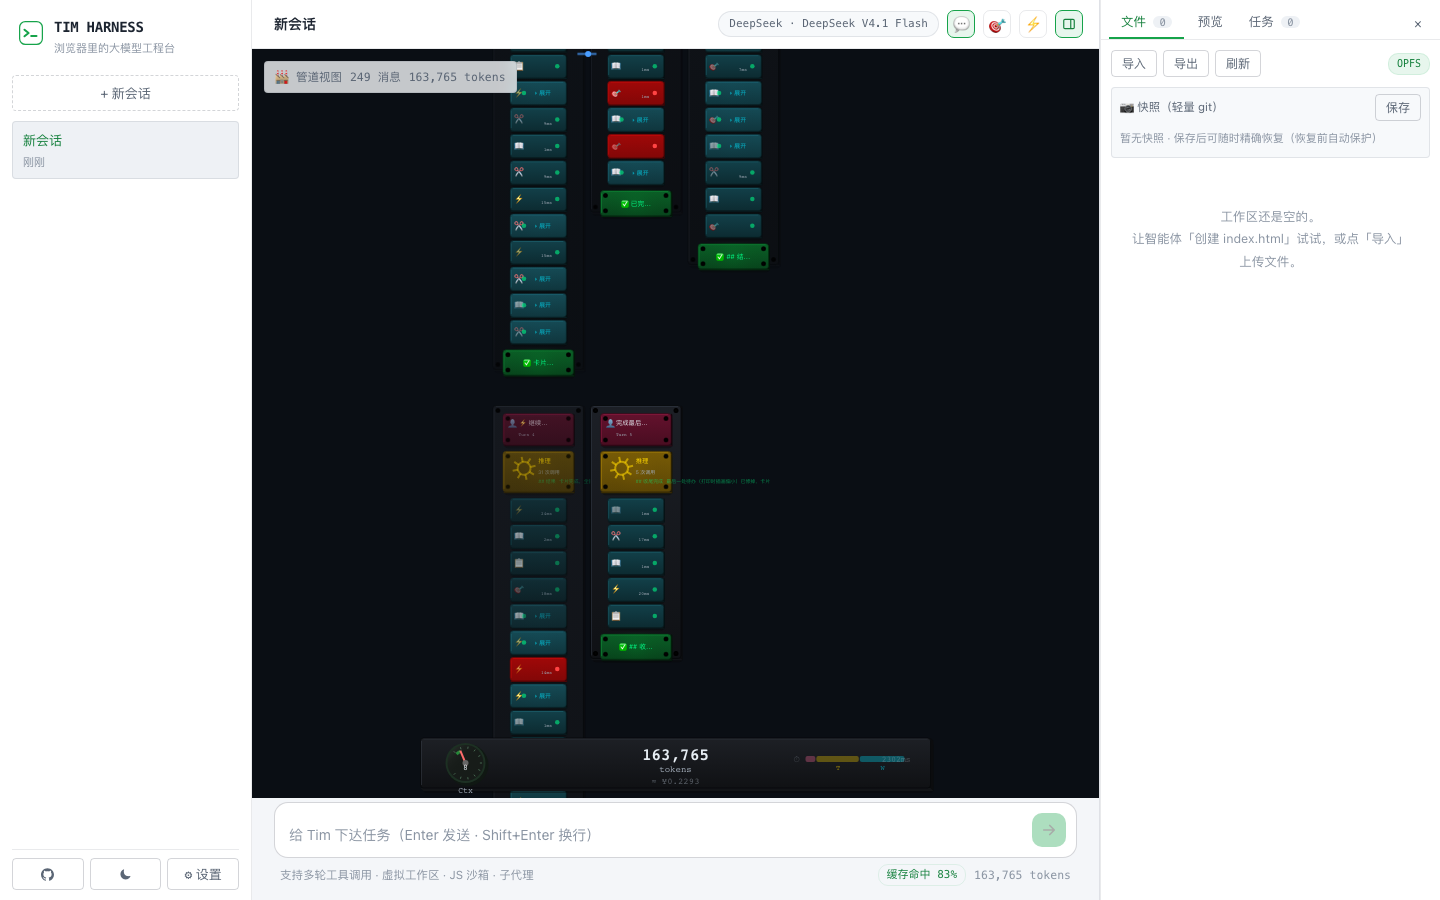
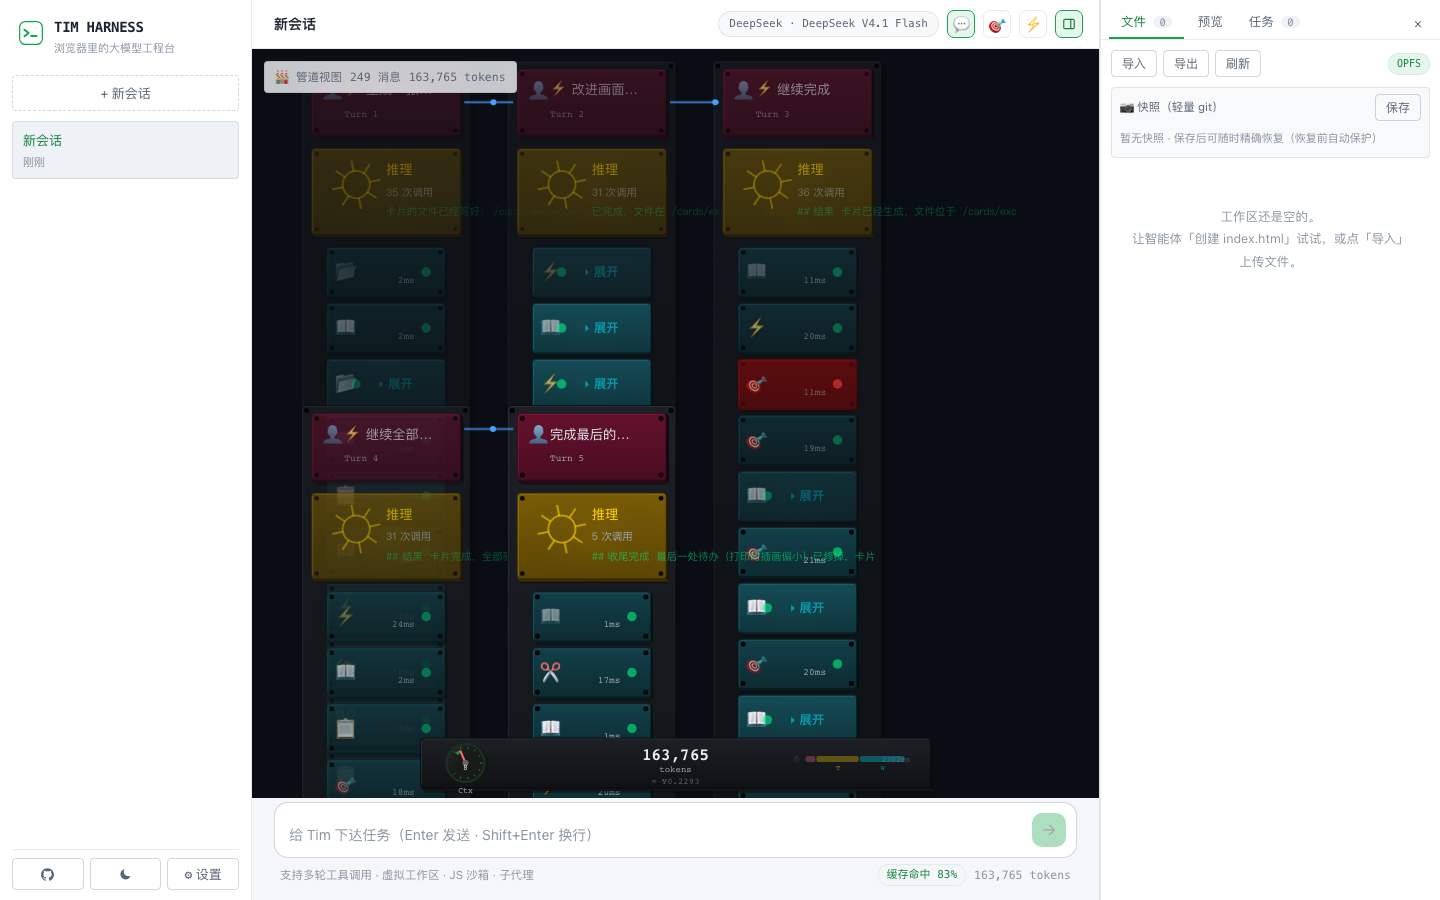
feat: 三级渐进式披露 —— 工具区缺省收拢为一行摘要
用户需求（终于正确理解）：
  '从整个数量来说，能够代表性到数个，而不是一拉开来一大堆'
  折叠的目的 = 使可视化更加紧凑
  不是折叠连续同类，而是整个工具列表默认收拢

三级渐进式披露：
  Level 0 (缺省): [🔧 35 calls ▸ detail]     ← 一行，极度紧凑
  Level 1 (点击):  按类别汇总                  ← 3-5 行
    [📖 read ×15] [✂ edit ×10] [⚡ exec ×7] ...
    [▸ view all]
  Level 2 (再点):  完整明细                    ← 每个调用
    [1 📖 read_file ✓] [2 📖 read_file ✓] ...

交互：
  点击 Level 0 → Level 1（类别汇总）
  点击 Level 1 标题 → Level 0（收起）
  点击 'view all' → Level 2（完整明细）
  点击 Level 2 标题 → Level 0（收起）

布局优化：
  rowHeight 按 Level 0 计算（每回合仅 ~50px 工具区）
  5 回合 × 紧凑高度 = 全部可见，不需要滚动

diff --git a/src/ui/components/PipelineRenderer.ts b/src/ui/components/PipelineRenderer.ts
@@ -26,6 +26,15 @@ const TOOL_ICONS: Record<string, string> = {
   goal_update: '🎯', snapshot_save: '💾', snapshot_list: '📦',
 }
 const toolIcon = (n: string) => TOOL_ICONS[n] ?? '🔧'
+const TOOL_CATEGORY: Record<string, { cat: string; icon: string }> = {
+  read_file: { cat: 'read', icon: '📖' }, write_file: { cat: 'write', icon: '✍' },
+  edit_file: { cat: 'edit', icon: '✂' }, run_js: { cat: 'exec', icon: '⚡' },
+  grep: { cat: 'search', icon: '🎯' }, glob: { cat: 'match', icon: '🎯' },
+  ls: { cat: 'browse', icon: '📂' }, web_fetch: { cat: 'fetch', icon: '🌐' },
+  web_search: { cat: 'search', icon: '🔎' }, skill: { cat: 'skill', icon: '📚' },
+  spawn_agent: { cat: 'spawn', icon: '🤖' }, todo_write: { cat: 'plan', icon: '📋' },
+  ask_user: { cat: 'ask', icon: '❓' }, snapshot_save: { cat: 'snap', icon: '💾' },
+}
 
 const TOOL_DESC: Record<string, string> = {
   read_file: '读取文件', write_file: '写入文件', edit_file: '修改文件',
@@ -112,7 +121,7 @@ export class PipelineRenderer {
   private offsetX = 0; private offsetY = 0
   private panning = false
   private panStart = { x: 0, y: 0 }
-  private expandedFolds = new Set<string>()
+  private expandLevel = new Map<string, number>()
   private hitItems: Array<{ key: string; x: number; y: number; w: number; h: number }> = []
 
   constructor(canvas: HTMLCanvasElement) {
@@ -138,8 +147,7 @@ export class PipelineRenderer {
     const perRow = Math.min(nTurns, maxPerRow)
     const nRows = Math.ceil(nTurns / perRow)
     this.pipeW = Math.min(PIPE_W_MAX, Math.max(PIPE_W_MIN, (availW - (perRow - 1) * GAP_H) / perRow))
-    const maxTools = Math.max(...this.data.turns.map(t => t.tools.length), 1)
-    this.rowHeight = USER_H + THINK_H + maxTools * (TOOL_H + GAP_V * 0.5) + DONE_H + GAP_V * 4 + 20
+        this.rowHeight = USER_H + THINK_H + 50 + DONE_H + GAP_V * 4 + 20
     const contentW = perRow * (this.pipeW + GAP_H) - GAP_H
     const contentH = nRows * this.rowHeight
     const fit = fitToViewport(contentW, contentH, this.w, this.h - FOOTER_H, 1.0, 20, 0.45)
@@ -191,10 +199,12 @@ export class PipelineRenderer {
     // 点击检测：折叠/展开项
     for (const item of this.hitItems) {
       if (sx >= item.x && sx <= item.x + item.w && sy >= item.y && sy <= item.y + item.h) {
-        if (this.expandedFolds.has(item.key)) {
-          this.expandedFolds.delete(item.key)
+        const turnId = item.key.split(':')[0]
+        if (item.key.endsWith(':all')) {
+          this.expandLevel.set(turnId, 2)
         } else {
-          this.expandedFolds.add(item.key)
+          const cur = this.expandLevel.get(turnId) ?? 0
+          this.expandLevel.set(turnId, cur === 0 ? 1 : 0)
         }
         return
       }
@@ -289,14 +299,9 @@ export class PipelineRenderer {
     const gap = GAP_V * this.zoom
 
     // 计算实际渲染的工具行数（考虑展开状态）
-    const isExpanded = (toolIdx: number) => this.expandedFolds.has(`${turn.turnId}:${toolIdx}`)
-    const visibleRows = turn.tools.reduce((sum, tool, idx) => {
-      if (tool.folded && isExpanded(idx)) return sum + 1 + (tool.count ?? 1) // 标题行 + 每个调用
-      return sum + 1
-    }, 0)
 
     // 底座
-    const totalH = (USER_H + THINK_H + visibleRows * TOOL_H + (turn.finalText ? DONE_H : 0) + gap * (3 + visibleRows)) * this.zoom
+    const totalH = (USER_H + THINK_H + 50 + (turn.finalText ? DONE_H : 0) + gap * 4) * this.zoom
     drawPanel(ctx, px - 10, py - 8, pw + 20, totalH + 16, {
       hue: 220, sat: 15, light: 10, depth: 4 * this.zoom
     }, now, { screws: true })
@@ -331,151 +336,112 @@ export class PipelineRenderer {
     ctx.fillStyle = C.think; ctx.font = `${14 * this.zoom}px sans-serif`; ctx.textAlign = 'left'
     ctx.fillText('推理', px + pw * 0.5, py + th * 0.3)
     ctx.fillStyle = C.textDim; ctx.font = `${11 * this.zoom}px sans-serif`
-    const totalCalls = turn.tools.reduce((s, t) => s + (t.count ?? 1), 0)
-    ctx.fillText(`${totalCalls} 次调用`, px + pw * 0.5, py + th * 0.55)
     if (turn.finalText) {
       ctx.fillStyle = C.done + '80'
       ctx.fillText(turn.finalText, px + pw * 0.5, py + th * 0.78)
     }
     py += th + gap
 
-    // ═══ 工具列表（含折叠/展开交互）═══
-    for (let toolIdx = 0; toolIdx < turn.tools.length; toolIdx++) {
-      const tool = turn.tools[toolIdx]
-      const key = `${turn.turnId}:${toolIdx}`
-      const expanded = this.expandedFolds.has(key)
+    // ═══ 工具区：三级渐进式披露 ═══
+    const totalCalls = turn.tools.reduce((sum, t) => sum + (t.count ?? 1), 0)
+    const level = this.expandLevel.get(String(turn.turnId)) ?? 0
 
-      if (tool.folded && !expanded) {
-        // ═══ 折叠状态 ═══
-        const toolH = TOOL_H * this.zoom
-        drawPanel(ctx, px + 16 * this.zoom, py, pw - 32 * this.zoom, toolH, {
-          hue: 190, sat: 60, light: 18, depth: 2 * this.zoom
-        }, now, { screws: false, glowAlpha: 0.03 })
-
-        // 图标
-        ctx.font = `${18 * this.zoom}px sans-serif`; ctx.textAlign = 'left'; ctx.textBaseline = 'middle'
-        ctx.fillText(toolIcon(tool.name), px + 24 * this.zoom, py + toolH / 2)
-
-        // 折叠名称："run_js ×5"（加粗+青色）
-        ctx.fillStyle = C.tool
-        ctx.font = `bold ${14 * this.zoom}px ui-monospace, monospace`
-        ctx.textBaseline = 'alphabetic'
-        drawTextSafe(ctx, `${tool.name} ×${tool.count}`, px + 52 * this.zoom, py + toolH * 0.38, pw - 140 * this.zoom, 'left')
-
-        // 描述
-        ctx.fillStyle = C.tool + '70'
-        ctx.font = `${10 * this.zoom}px sans-serif`
-        drawTextSafe(ctx, `${tool.count} 次连续调用`, px + 52 * this.zoom, py + toolH * 0.72, pw - 140 * this.zoom, 'left')
-
-        // ▸ 展开按钮（大且明显）
-        ctx.fillStyle = C.tool + '90'
-        ctx.font = `bold ${13 * this.zoom}px sans-serif`
-        ctx.textAlign = 'right'; ctx.textBaseline = 'middle'
-        ctx.fillText('▸ 展开', px + pw - 50 * this.zoom, py + toolH / 2)
-
-        // 状态灯
-        const lightX = px + pw - 110 * this.zoom
-        ctx.fillStyle = C.done + '90'
-        ctx.beginPath(); ctx.arc(lightX, py + toolH / 2, 5 * this.zoom, 0, Math.PI * 2); ctx.fill()
-
-        // 注册点击区域
-        this.hitItems.push({
-          key, x: px + 16 * this.zoom, y: py,
-          w: pw - 32 * this.zoom, h: toolH,
-        })
-        // 折叠标记不受时间淡化（必须可见可点击）
-        ctx.globalAlpha = Math.max(ctx.globalAlpha, 0.8)
-
-        py += toolH + gap * 0.5
-        ctx.globalAlpha = 1 // 恢复（后面会重新设置）
-      } else if (tool.folded && expanded) {
-        // ═══ 展开状态 ═══
-        const count = tool.count ?? 1
-
-        // 标题行（点击收起）
-        const headerH = 32 * this.zoom
-        ctx.fillStyle = C.tool + '20'
-        ctx.strokeStyle = C.tool + '50'; ctx.lineWidth = 1
-        ctx.beginPath(); ctx.roundRect(px + 16 * this.zoom, py, pw - 32 * this.zoom, headerH, 4); ctx.fill(); ctx.stroke()
-
-        ctx.fillStyle = C.tool
-        ctx.font = `bold ${12 * this.zoom}px sans-serif`
-        ctx.textAlign = 'left'; ctx.textBaseline = 'middle'
-        ctx.fillText(`${toolIcon(tool.name)} ${tool.name}`, px + 28 * this.zoom, py + headerH / 2)
-
-        ctx.fillStyle = C.tool + '80'
-        ctx.font = `${11 * this.zoom}px sans-serif`
+    if (totalCalls > 0 && level === 0) {
+      // Level 0: 一行摘要（缺省，极度紧凑）
+      const sumH = 44 * this.zoom
+      drawPanel(ctx, px + 16 * this.zoom, py, pw - 32 * this.zoom, sumH, {
+        hue: 190, sat: 50, light: 15, depth: 2 * this.zoom
+      }, now, { screws: false })
+      ctx.font = `${16 * this.zoom}px sans-serif`; ctx.textAlign = 'left'; ctx.textBaseline = 'middle'
+      ctx.fillText('\u{1F527}', px + 26 * this.zoom, py + sumH / 2)
+      ctx.fillStyle = C.tool
+      ctx.font = `bold ${13 * this.zoom}px sans-serif`
+      ctx.fillStyle = C.tool + '80'
+      ctx.font = `${11 * this.zoom}px sans-serif`
+      ctx.textAlign = 'right'
+      ctx.fillText('\u25B8 detail', px + pw - 45 * this.zoom, py + sumH / 2)
+      this.hitItems.push({ key: String(turn.turnId), x: px + 16 * this.zoom, y: py, w: pw - 32 * this.zoom, h: sumH })
+      py += sumH + gap
+    } else if (totalCalls > 0 && level === 1) {
+      // Level 1: 按类别汇总
+      const catMap = new Map<string, { count: number; icon: string }>()
+      for (const t of turn.tools) {
+        const cat = TOOL_CATEGORY[t.name]?.cat ?? t.name
+        const icon = TOOL_CATEGORY[t.name]?.icon ?? '\u{1F527}'
+        const n = t.count ?? 1
+        const ex = catMap.get(cat)
+        if (ex) ex.count += n
+        else catMap.set(cat, { count: n, icon })
+      }
+      const hdrH = 30 * this.zoom
+      ctx.fillStyle = C.tool + '15'; ctx.strokeStyle = C.tool + '40'; ctx.lineWidth = 1
+      ctx.beginPath(); ctx.roundRect(px + 16 * this.zoom, py, pw - 32 * this.zoom, hdrH, 4); ctx.fill(); ctx.stroke()
+      ctx.fillStyle = C.tool; ctx.font = `bold ${11 * this.zoom}px sans-serif`
+      ctx.textAlign = 'right'; ctx.textBaseline = 'middle'
+      ctx.textAlign = 'left'
+      ctx.fillText('by category', px + 26 * this.zoom, py + hdrH / 2)
+      this.hitItems.push({ key: String(turn.turnId), x: px + 16 * this.zoom, y: py, w: pw - 32 * this.zoom, h: hdrH })
+      py += hdrH + gap * 0.3
+      for (const [cat, info] of catMap) {
+        const catH = 32 * this.zoom
+        ctx.fillStyle = 'rgba(0,229,255,0.06)'; ctx.strokeStyle = 'rgba(0,229,255,0.12)'; ctx.lineWidth = 0.5
+        ctx.beginPath(); ctx.roundRect(px + 24 * this.zoom, py, pw - 48 * this.zoom, catH, 3); ctx.fill(); ctx.stroke()
+        ctx.font = `${12 * this.zoom}px sans-serif`; ctx.textAlign = 'left'; ctx.textBaseline = 'middle'
+        ctx.fillText(info.icon, px + 32 * this.zoom, py + catH / 2)
+        ctx.fillStyle = C.text; ctx.font = `${11 * this.zoom}px sans-serif`
+        ctx.fillText(cat, px + 52 * this.zoom, py + catH / 2)
+        ctx.fillStyle = C.tool; ctx.font = `bold ${11 * this.zoom}px monospace`
         ctx.textAlign = 'right'
-        ctx.fillText(`▾ 收起 (${count} 个)`, px + pw - 50 * this.zoom, py + headerH / 2)
-
-        // 注册标题行点击
-        this.hitItems.push({
-          key, x: px + 16 * this.zoom, y: py,
-          w: pw - 32 * this.zoom, h: headerH,
-        })
-        py += headerH + gap * 0.3
-
-        // 每个调用
-        for (let ci = 0; ci < count; ci++) {
-          const callH = TOOL_H * 0.75 * this.zoom
-          ctx.fillStyle = 'rgba(0,229,255,0.06)'
-          ctx.strokeStyle = 'rgba(0,229,255,0.15)'; ctx.lineWidth = 0.5
-          ctx.beginPath(); ctx.roundRect(px + 24 * this.zoom, py, pw - 48 * this.zoom, callH, 3); ctx.fill(); ctx.stroke()
-
-          ctx.textBaseline = 'middle'
-          // 序号
-          ctx.fillStyle = C.textDim; ctx.font = `${9 * this.zoom}px monospace`; ctx.textAlign = 'left'
-          ctx.fillText(`#${ci + 1}`, px + 32 * this.zoom, py + callH / 2)
-          // 图标
-          ctx.font = `${12 * this.zoom}px sans-serif`
-          ctx.fillText(toolIcon(tool.name), px + 62 * this.zoom, py + callH / 2)
-          // 名称
-          ctx.fillStyle = C.text; ctx.font = `${10 * this.zoom}px monospace`
-          ctx.fillText(tool.name, px + 82 * this.zoom, py + callH / 2)
-          // 状态
+        ctx.fillText(`\u00D7${info.count}`, px + pw - 45 * this.zoom, py + catH / 2)
+        py += catH + gap * 0.2
+      }
+      const moreH = 26 * this.zoom
+      ctx.fillStyle = C.tool + '10'
+      ctx.beginPath(); ctx.roundRect(px + 24 * this.zoom, py, pw - 48 * this.zoom, moreH, 3); ctx.fill()
+      ctx.fillStyle = C.tool + '70'; ctx.font = `${10 * this.zoom}px sans-serif`
+      ctx.textAlign = 'center'
+      ctx.fillText('\u25B8 view all', px + pw / 2, py + moreH / 2)
+      this.hitItems.push({ key: `${turn.turnId}:all`, x: px + 24 * this.zoom, y: py, w: pw - 48 * this.zoom, h: moreH })
+      py += moreH + gap
+    } else if (totalCalls > 0 && level >= 2) {
+      // Level 2: 完整明细
+      const hdrH = 30 * this.zoom
+      ctx.fillStyle = C.tool + '15'; ctx.strokeStyle = C.tool + '40'; ctx.lineWidth = 1
+      ctx.beginPath(); ctx.roundRect(px + 16 * this.zoom, py, pw - 32 * this.zoom, hdrH, 4); ctx.fill(); ctx.stroke()
+      ctx.fillStyle = C.tool; ctx.font = `bold ${11 * this.zoom}px sans-serif`
+      ctx.textAlign = 'right'; ctx.textBaseline = 'middle'
+      ctx.textAlign = 'left'
+      ctx.fillText('all calls', px + 26 * this.zoom, py + hdrH / 2)
+      this.hitItems.push({ key: String(turn.turnId), x: px + 16 * this.zoom, y: py, w: pw - 32 * this.zoom, h: hdrH })
+      py += hdrH + gap * 0.3
+      let callNum = 0
+      for (const tool of turn.tools) {
+        const n = tool.count ?? 1
+        for (let ci = 0; ci < n; ci++) {
+          callNum++
+          const callH = 26 * this.zoom
+          ctx.fillStyle = tool.ok ? 'rgba(0,229,255,0.04)' : 'rgba(255,68,68,0.06)'
+          ctx.strokeStyle = tool.ok ? 'rgba(0,229,255,0.1)' : 'rgba(255,68,68,0.2)'
+          ctx.lineWidth = 0.5
+          ctx.beginPath(); ctx.roundRect(px + 24 * this.zoom, py, pw - 48 * this.zoom, callH, 2); ctx.fill(); ctx.stroke()
+          ctx.fillStyle = C.textDim + '60'; ctx.font = `${8 * this.zoom}px monospace`
+          ctx.textAlign = 'left'; ctx.textBaseline = 'middle'
+          ctx.fillText(String(callNum), px + 30 * this.zoom, py + callH / 2)
+          ctx.font = `${10 * this.zoom}px sans-serif`
+          ctx.fillText(toolIcon(tool.name), px + 46 * this.zoom, py + callH / 2)
+          ctx.fillStyle = tool.ok ? C.text : '#FF8888'
+          ctx.font = `${9 * this.zoom}px monospace`
+          ctx.fillText(tool.name, px + 62 * this.zoom, py + callH / 2)
           ctx.fillStyle = tool.ok ? C.done : C.error
           ctx.textAlign = 'right'
-          ctx.fillText(tool.ok ? '✓' : '✗', px + pw - 50 * this.zoom, py + callH / 2)
-
-          py += callH + gap * 0.2
+          ctx.fillText(tool.ok ? '\u2713' : '\u2717', px + pw - 45 * this.zoom, py + callH / 2)
+          py += callH + gap * 0.15
         }
-        py += gap * 0.3
-      } else {
-        // ═══ 普通单个工具 ═══
-        const toolH = TOOL_H * this.zoom
-        const toolHue = tool.ok ? 190 : 0
-        drawPanel(ctx, px + 16 * this.zoom, py, pw - 32 * this.zoom, toolH, {
-          hue: toolHue, sat: tool.ok ? 60 : 90, light: tool.ok ? 15 : 30, depth: 2 * this.zoom
-        }, now, { screws: this.zoom > 0.6 })
-
-        ctx.font = `${18 * this.zoom}px sans-serif`; ctx.textAlign = 'left'; ctx.textBaseline = 'middle'
-        ctx.fillText(toolIcon(tool.name), px + 24 * this.zoom, py + toolH / 2)
-
-        ctx.fillStyle = tool.ok ? C.text : '#FF6666'
-        ctx.font = `${13 * this.zoom}px ui-monospace, monospace`
-        ctx.textBaseline = 'alphabetic'
-        drawTextSafe(ctx, tool.ok ? tool.name : `⚠ ${tool.name}`, px + 52 * this.zoom, py + toolH * 0.38, pw - 140 * this.zoom, 'left')
-
-        ctx.fillStyle = tool.ok ? C.textDim + '90' : '#FF8888'
-        ctx.font = `${10 * this.zoom}px sans-serif`
-        drawTextSafe(ctx, tool.ok ? (tool.desc || '') : '执行失败', px + 52 * this.zoom, py + toolH * 0.72, pw - 140 * this.zoom, 'left')
-
-        // 状态灯 + 耗时
-        const lightX = px + pw - 36 * this.zoom
-        const lightY = py + toolH / 2
-        ctx.fillStyle = tool.ok ? C.done + '90' : C.error
-        ctx.beginPath(); ctx.arc(lightX, lightY, 5 * this.zoom, 0, Math.PI * 2); ctx.fill()
-        if (tool.dur > 0) {
-          ctx.fillStyle = C.textDim; ctx.font = `${10 * this.zoom}px monospace`; ctx.textAlign = 'right'
-          const durText = tool.dur > 1000 ? `${(tool.dur / 1000).toFixed(1)}s` : `${tool.dur}ms`
-          ctx.fillText(durText, lightX - 12 * this.zoom, py + toolH * 0.72)
-        }
-
-        py += toolH + gap * 0.5
       }
+      py += gap * 0.5
     }
-    py += gap * 0.5
 
+    // 完成节点
     // 完成节点
     if (turn.finalText) {
       const dh = DONE_H * this.zoom
